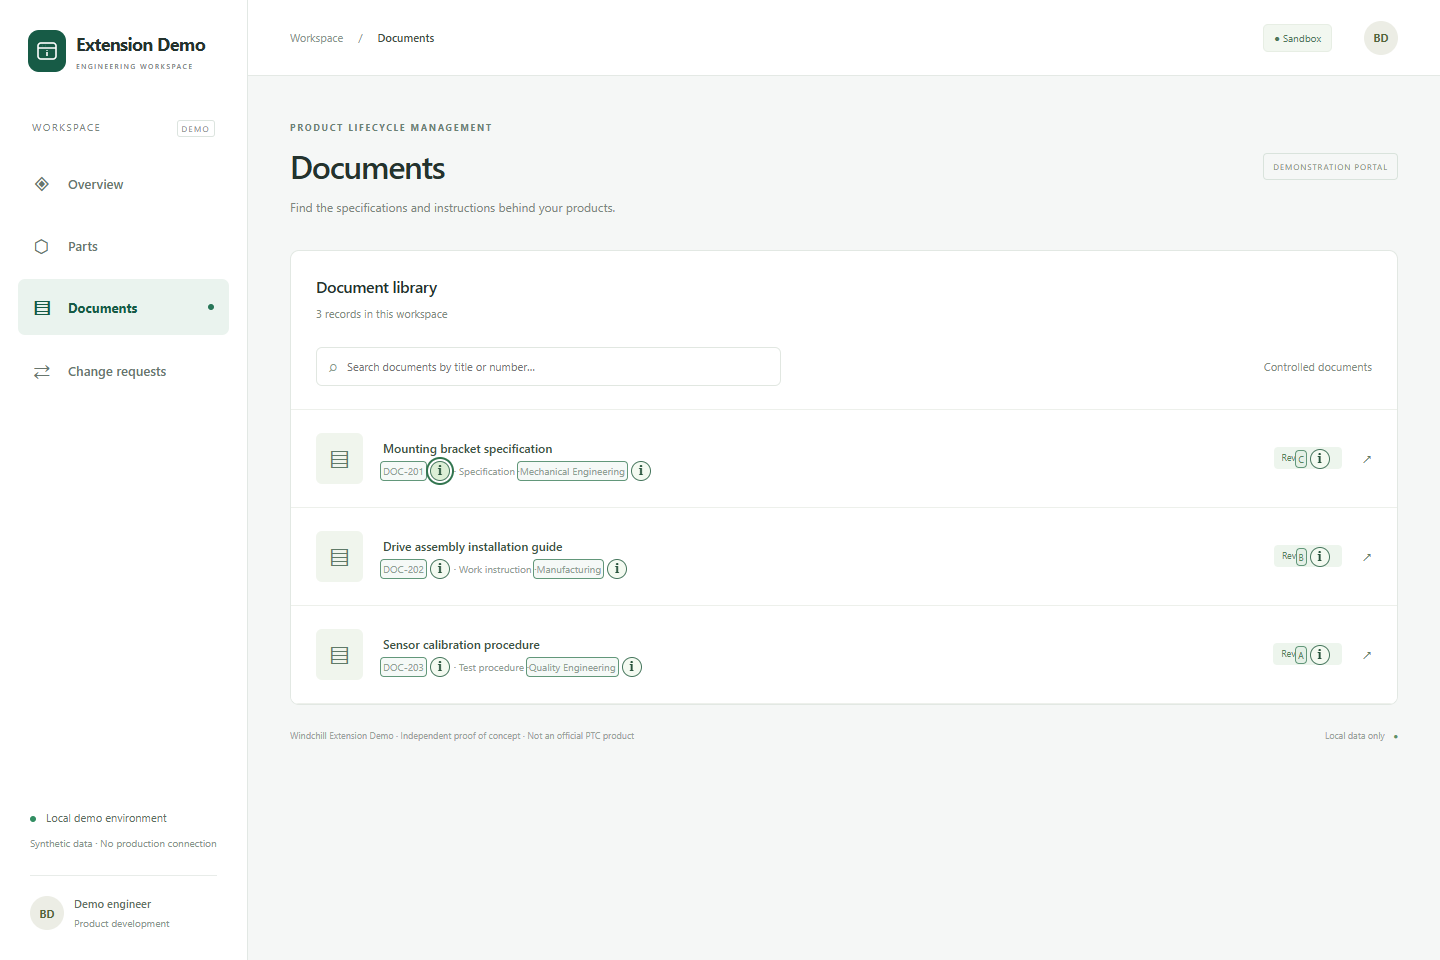
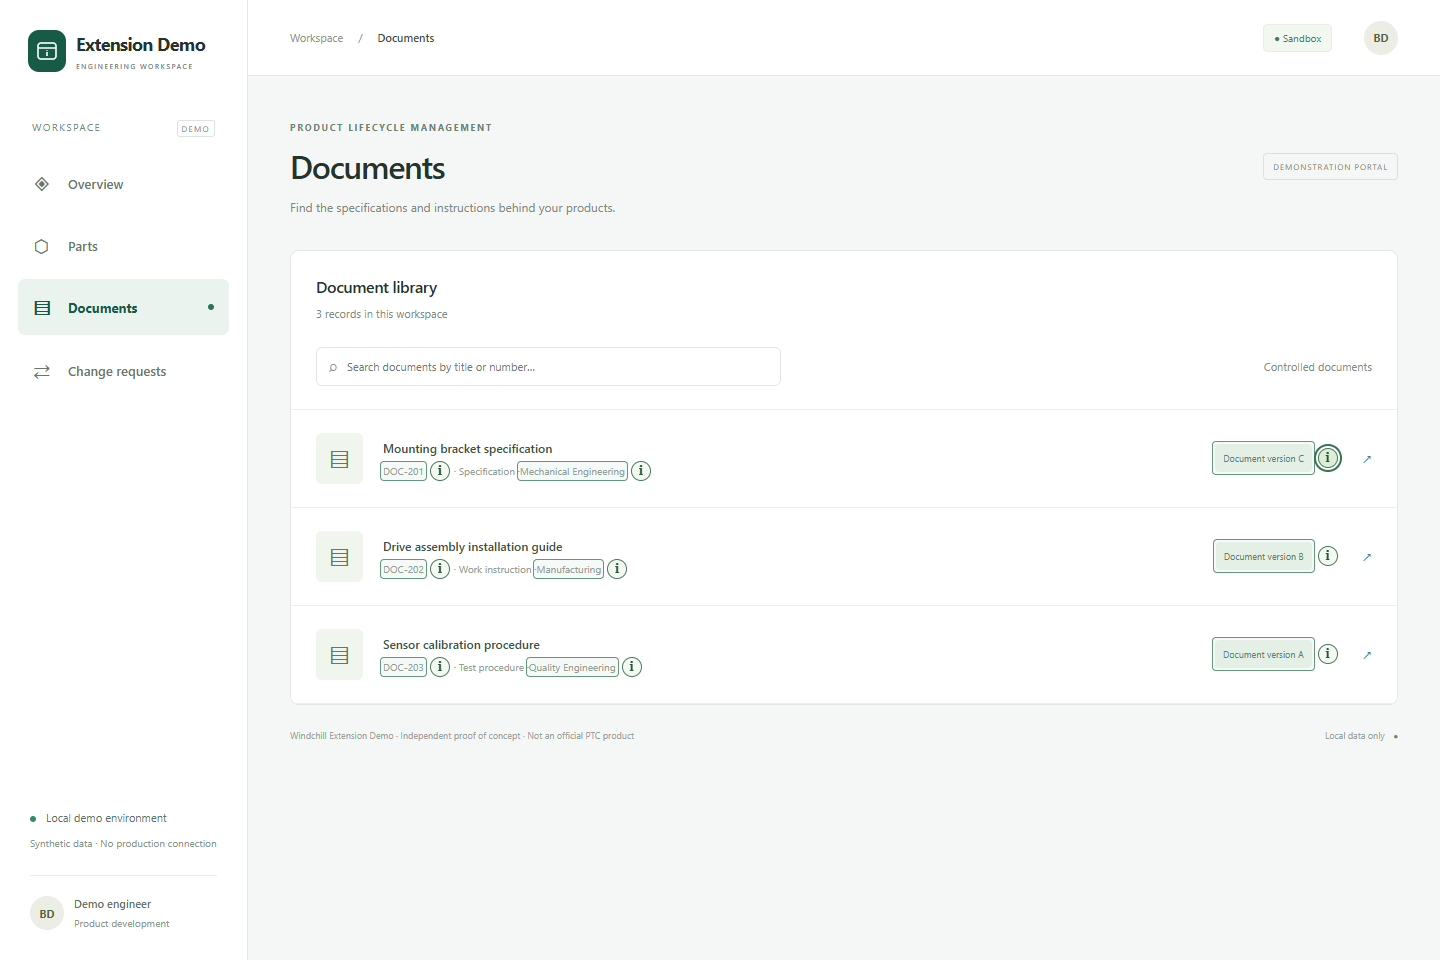
fix: clarify document versions and align badge highlights

diff --git a/apps/demo-portal/src/main.tsx b/apps/demo-portal/src/main.tsx
@@ -543,11 +543,11 @@ function App() {
                                 </span>
                               </small>
                             </div>
-                            <span className="badge">
-                              Rev{' '}
-                              <span data-info="document-revision">
-                                {doc.revision}
-                              </span>
+                            <span
+                              className="badge"
+                              data-info="document-revision"
+                            >
+                              Document version {doc.revision}
                             </span>
                             <span>↗</span>
                           </button>
@@ -579,9 +579,8 @@ function App() {
               </span>
               <h2 id="document-title">{detail.title}</h2>
               <p>{detail.content}</p>
-              <span className="badge">
-                Revision{' '}
-                <span data-info="document-revision">{detail.revision}</span>
+              <span className="badge" data-info="document-revision">
+                Document version {detail.revision}
               </span>
               <button
                 className="secondary"

diff --git a/packages/shared/information-highlights.ts b/packages/shared/information-highlights.ts
@@ -60,10 +60,11 @@ export const informationHighlights: InformationHighlight[] = [
     id: 'document-revision',
     supportedRoutes: ['documents'],
     selector: '[data-info="document-revision"]',
-    title: 'Document revision',
-    description: 'The revision label shown for this document.',
+    title: 'Document version',
+    description:
+      'The letter identifies a version of this document. For example, version C comes after versions A and B.',
     whyItMatters:
-      'Check the revision when referring to engineering instructions. The demo contains seeded labels and does not implement revision history.',
+      'Check the version so you refer to the intended set of instructions. These are sample version labels; this demo does not store version history.',
     importance: 'high',
   },
   {

diff --git a/tests/e2e/information.spec.ts b/tests/e2e/information.spec.ts
@@ -206,6 +206,15 @@ test('document information icons do not overlap metadata text at wide or narrow 
     'Current value: DOC-201',
   );
   await portal.keyboard.press('Escape');
+  const versionIcon = portal.getByRole('button', {
+    name: 'Explain Document version: Document version C',
+    exact: true,
+  });
+  await versionIcon.focus();
+  await expect(portal.getByRole('tooltip')).toContainText(
+    'version C comes after versions A and B',
+  );
+  await portal.keyboard.press('Escape');
   await portal.setViewportSize({ width: 1440, height: 960 });
   await portal.screenshot({
     path: testInfo.outputPath('document-information-alignment.png'),

diff --git a/apps/demo-portal/src/styles.css b/apps/demo-portal/src/styles.css
@@ -574,6 +574,11 @@ td strong {
 .document-row > .badge {
   flex-shrink: 0;
 }
+.document-row [data-info='document-revision'],
+.detail [data-info='document-revision'] {
+  white-space: nowrap;
+  line-height: 20px;
+}
 .document-row strong {
   font-size: 12px;
   color: #3c5344;

diff --git a/docs/VERIFICATION.md b/docs/VERIFICATION.md
@@ -4,6 +4,8 @@ Latest client-feedback verification: Windows, 2026-11-09, Node 26.13.0 and npm 1
 
 ## Automated checks
 
+Document version wording and badge alignment, 2026-11-09: replaced abbreviated revision labels with "Document version A/B/C" in the list and details. The highlight now targets the whole badge; the information icon is centered beside it. Tooltip copy explains the letter sequence in plain language. Both targeted document browser checks passed, including text-overlap checks at 1440/900/600 pixels and the new version explanation assertion. Production build/strict TypeScript passed; the updated alignment screenshot was visually inspected.
+
 Document information-icon alignment, 2026-11-09: reserved space beside annotated values and enabled wrapping metadata. The browser regression checks all nine document-list icons against text bounds at 1440, 900, and 600 pixels, verifies the identifier tooltip, and opens document details. This regression and the existing navigation/definition check passed. All 21 unit tests, ESLint, and the production build/strict TypeScript passed. The rendered screenshot was inspected and saved as `artifacts/document-information-alignment.png`. The full browser suite was not rerun for this CSS change.
 
 Neutral branding and contextual information, 2026-11-09: production build/strict TypeScript, ESLint, Prettier, all **21 unit tests**, and the full **26 browser tests** passed. New checks cover display titles/logos, generated manifest icon paths/PNG sizes, unchanged permissions, side-panel toggle, actual counts, tooltip hover/focus/Escape, current values and literal unsafe-text rendering, dynamic insertion/removal/replacement and React filtering, repeated toggling, unsupported contexts, async documents, change statuses, multi-tab isolation, viewport placement, tooltip stacking hit tests, and walkthrough coexistence/priority. Existing tours, validation, and refresh recovery remain covered.
